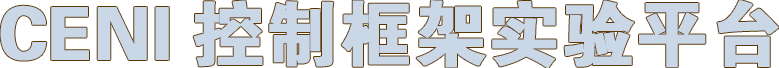
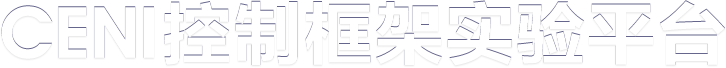
css renew

diff --git a/ccf/static/css/own-flatui.css b/ccf/static/css/own-flatui.css
@@ -3878,7 +3878,7 @@ body.vjs-full-window {
   margin-bottom: 20px;
 }
 .login_bg .login_title {
-  background: #0088CC;
+  background: #3da2f7 url(../img/banner.png) center top;
   height: 500px;
   width: 100%;
   line-height: 500px;

diff --git a/ccf/static/less/own-flatui.less b/ccf/static/less/own-flatui.less
@@ -12,7 +12,7 @@
 		margin-bottom:20px;
 	}
 	.login_title {
-		background:#0088CC;
+		background:#3da2f7 url(../img/banner.png) center top;
 		height:500px;
 		width:100%;
 		line-height:500px;
